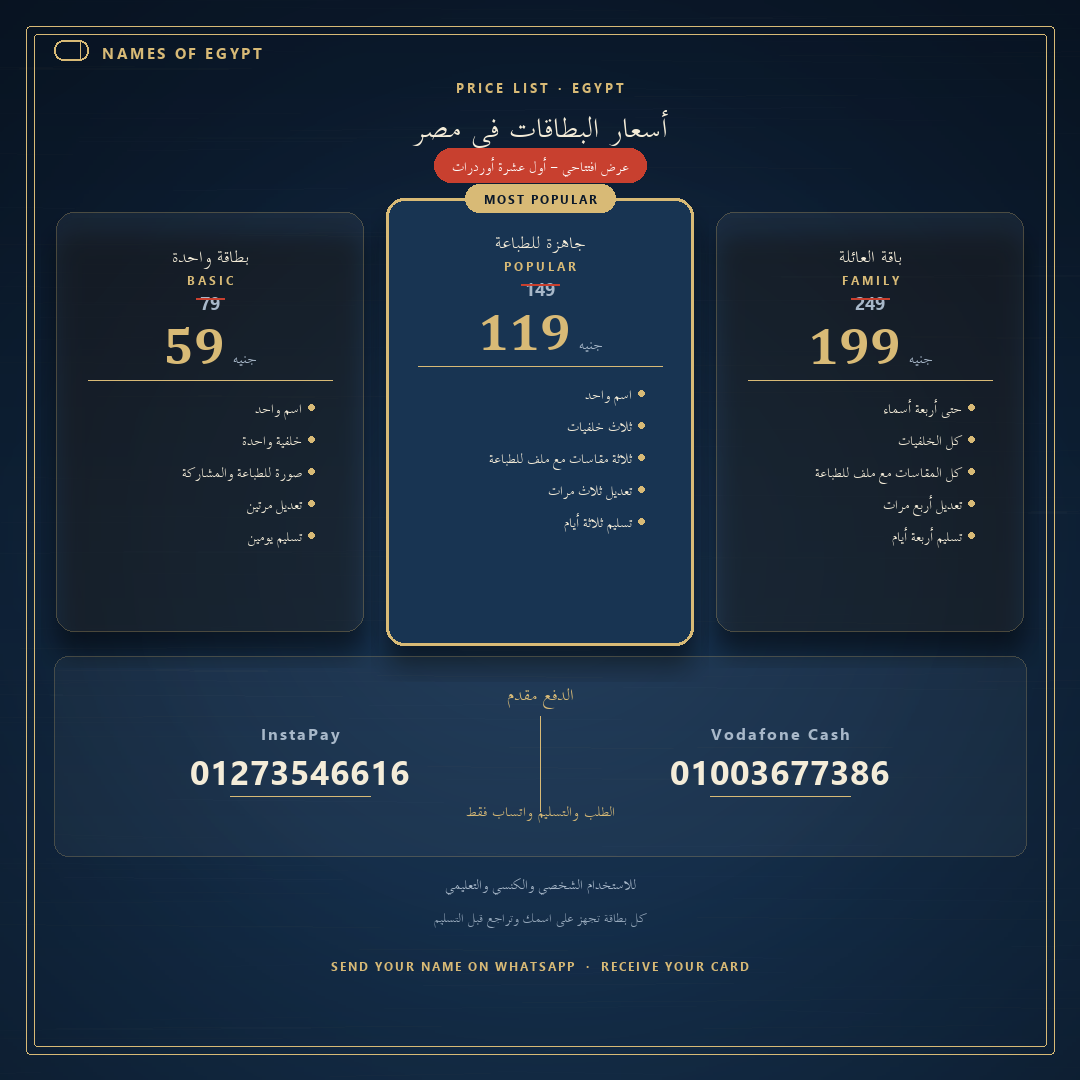
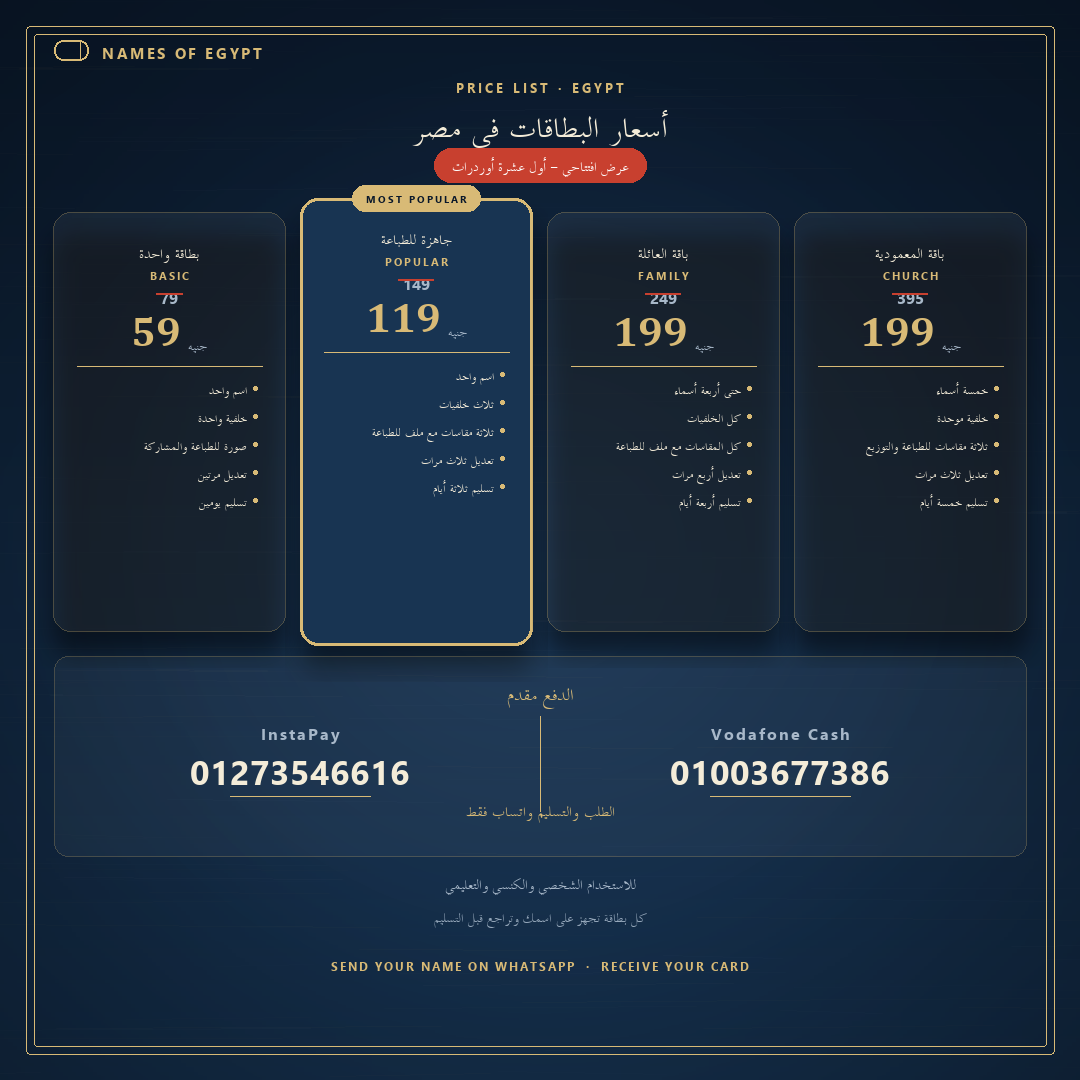
feat: add baptism 5-names package to square poster

diff --git a/gallery/pricing_sq.py b/gallery/pricing_sq.py
@@ -158,11 +158,20 @@ def main():
             "feats": ["حتى أربعة أسماء", "كل الخلفيات", "كل المقاسات مع ملف للطباعة", "تعديل أربع مرات", "تسليم أربعة أيام"],
             "hot": False
         },
+        {
+            "title": "باقة المعمودية",
+            "en": "CHURCH",
+            "price": "199",
+            "old": "395",
+            "currency": "جنيه",
+            "feats": ["خمسة أسماء", "خلفية موحدة", "ثلاثة مقاسات للطباعة والتوزيع", "تعديل ثلاث مرات", "تسليم خمسة أيام"],
+            "hot": False
+        },
     ]
 
-    card_w, card_h = 308, 420
-    gap = 22
-    total_w = card_w * 3 + gap * 2
+    card_w, card_h = 233, 420
+    gap = 14
+    total_w = card_w * 4 + gap * 3
     start_x = (W - total_w) // 2
     top_y = 212
 
@@ -187,40 +196,40 @@ def main():
 
         cx = x + card_w // 2
         if c["hot"]:
-            pill_w, pill_h = 150, 28
-            d.rounded_rectangle([cx - pill_w // 2, y - 14, cx + pill_w // 2, y + 14], radius=14, fill=(216, 186, 118, 255))
-            center_en(d, cx, y - 7, "MOST POPULAR", font(F_UI, 12), (10, 24, 42), 2)
+            pill_w, pill_h = 128, 26
+            d.rounded_rectangle([cx - pill_w // 2, y - 13, cx + pill_w // 2, y + 13], radius=13, fill=(216, 186, 118, 255))
+            center_en(d, cx, y - 6, "MOST POPULAR", font(F_UI, 10), (10, 24, 42), 2)
 
-        center_ar(d, cx, y + 28, c["title"], font(F_AR, 24), CREAM)
-        center_en(d, cx, y + 60, c["en"], font(F_UI, 12), GOLD, 3)
+        center_ar(d, cx, y + 28, c["title"], font(F_AR, 19), CREAM)
+        center_en(d, cx, y + 56, c["en"], font(F_UI, 11), GOLD, 2)
 
-        f_price = font(F_HEAD, 52)
-        f_cur = font(F_AR, 20)
+        f_price = font(F_HEAD, 42)
+        f_cur = font(F_AR, 17)
         cur_ar = ar(c["currency"])
-        f_old = font(F_UI, 18)
+        f_old = font(F_UI, 16)
         w_old = d.textlength(c["old"], font=f_old)
-        old_top = y + 78
+        old_top = y + 74
         d.text((cx - w_old/2, old_top), c["old"], font=f_old, fill=MUT)
-        d.line([cx - w_old/2 - 4, old_top+8, cx + w_old/2 + 4, old_top+8], fill=(200,64,47,255), width=2)
+        d.line([cx - w_old/2 - 4, old_top+7, cx + w_old/2 + 4, old_top+7], fill=(200,64,47,255), width=2)
 
         w_price = d.textlength(c["price"], font=f_price)
         w_cur = d.textlength(cur_ar, font=f_cur)
-        total_price_w = w_price + 8 + w_cur
+        total_price_w = w_price + 7 + w_cur
         sx = cx - total_price_w / 2
-        d.text((sx, y + 102), c["price"], font=f_price, fill=GOLD)
-        d.text((sx + w_price + 8, y + 132), cur_ar, font=f_cur, fill=MUT)
+        d.text((sx, y + 94), c["price"], font=f_price, fill=GOLD)
+        d.text((sx + w_price + 7, y + 122), cur_ar, font=f_cur, fill=MUT)
 
-        d.line([x + 32, y + 168, x + card_w - 32, y + 168], fill=(216, 186, 118, 60), width=1)
+        d.line([x + 24, y + 154, x + card_w - 24, y + 154], fill=(216, 186, 118, 60), width=1)
 
-        fy = y + 184
+        fy = y + 168
         for ft in c["feats"]:
-            f_ft = font(F_AR, 18)
+            f_ft = font(F_AR, 15)
             t_ar = ar(ft)
             w_ft = d.textlength(t_ar, font=f_ft)
-            text_x = cx + 92 - w_ft
-            d.ellipse([cx + 98, fy + 8, cx + 104, fy + 14], fill=GOLD)
+            text_x = cx + 78 - w_ft
+            d.ellipse([cx + 84, fy + 6, cx + 88, fy + 10], fill=GOLD)
             d.text((text_x, fy), t_ar, font=f_ft, fill=CREAM)
-            fy += 32
+            fy += 28
 
     # payment panel
     py = 656
